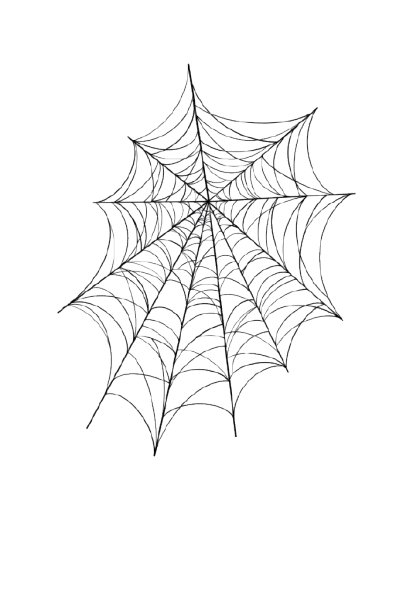
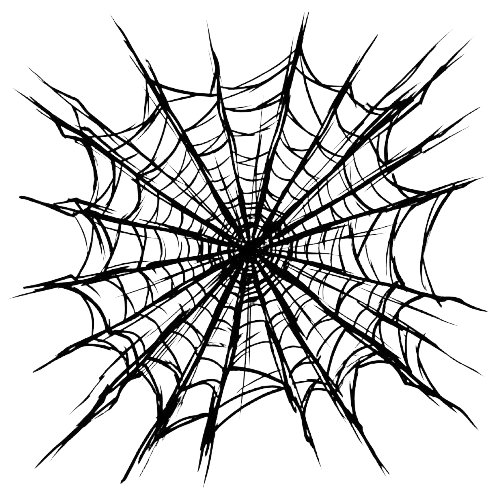
third check

diff --git a/components/WebStrand.tsx b/components/WebStrand.tsx
@@ -1,10 +1,9 @@
 "use client";
 
 import { useEffect, useRef } from "react";
-import { User } from "lucide-react";
+import Image from "next/image";
 import { useGsapScrollTrigger, prefersReducedMotion } from "@/lib/gsap";
 
-// TODO(content): swap the placeholder avatar circle for a real profile photo.
 export default function WebStrand() {
   const containerRef = useRef<HTMLDivElement>(null);
   const lineRef = useRef<HTMLDivElement>(null);
@@ -29,8 +28,8 @@ export default function WebStrand() {
         { scaleY: 1, duration: 0.6, ease: "power2.out", transformOrigin: "top" }
       ).fromTo(
         photoRef.current,
-        { y: -40, opacity: 0, scale: 0.8 },
-        { y: 0, opacity: 1, scale: 1, duration: 0.8, ease: "elastic.out(1, 0.6)" },
+        { y: -180, opacity: 0, scale: 0.8 },
+        { y: 0, opacity: 1, scale: 1, duration: 1.1, ease: "elastic.out(1, 0.55)" },
         "-=0.1"
       );
     }, containerRef);
@@ -46,9 +45,15 @@ export default function WebStrand() {
       />
       <div
         ref={photoRef}
-        className="flex h-40 w-40 items-center justify-center rounded-full border-4 border-primary bg-surface-soft shadow-lg motion-reduce:opacity-100"
+        className="relative h-56 w-56 overflow-hidden rounded-full border-4 border-primary shadow-lg motion-reduce:opacity-100 sm:h-64 sm:w-64"
       >
-        <User className="h-16 w-16 text-primary" strokeWidth={1.5} />
+        <Image
+          src="/assets/portrait.jpg"
+          alt="Kirsh Talreja"
+          fill
+          sizes="256px"
+          className="object-cover object-top"
+        />
       </div>
     </div>
   );

diff --git a/components/Hero.tsx b/components/Hero.tsx
@@ -1,5 +1,5 @@
 import WebCorner from "./WebCorner";
-import MaskReveal from "./MaskReveal";
+import HeroVisual from "./HeroVisual";
 
 export default function Hero() {
   return (
@@ -7,13 +7,13 @@ export default function Hero() {
       id="top"
       className="relative flex min-h-screen items-center overflow-hidden bg-surface pt-24"
     >
-      <MaskReveal />
+      <HeroVisual />
 
       <WebCorner className="pointer-events-none absolute -left-10 -top-10 z-10 h-48 w-48 opacity-60 md:h-64 md:w-64" />
-      <WebCorner
+      {/* <WebCorner
         flip
-        className="pointer-events-none absolute -bottom-16 -right-10 z-10 h-48 w-48 opacity-60 md:h-64 md:w-64"
-      />
+        className="pointer-events-none absolute bottom-0 right-0 z-10 h-64 w-48 origin-bottom-right opacity-60 md:h-64 md:w-64"
+      /> */}
 
       <div className="relative z-10 mx-auto w-full max-w-6xl px-6">
         <div className="max-w-xl">

diff --git a/components/About.tsx b/components/About.tsx
@@ -1,3 +1,4 @@
+import WebCorner from "./WebCorner";
 import WebStrand from "./WebStrand";
 
 const STACK = ["React", "Node.js", "Express", "PostgreSQL", "MongoDB", "Docker"];
@@ -7,11 +8,13 @@ export default function About() {
     <section id="about" className="web-watermark relative bg-surface-soft py-32">
       <div className="mx-auto grid max-w-6xl items-center gap-16 px-6 md:grid-cols-2">
         <div>
+           <WebCorner className="pointer-events-none absolute -left-10 -top-30 z-10 h-48 w-48 opacity-60 md:h-64 md:w-64" />
+               
           <p className="eyebrow mb-4">🕸 Behind the Mask</p>
           <h2 className="section-heading">
-            Sri
+            KIRSH 
             <br />
-            Sushmita.
+            TALREJA.
           </h2>
 
           {/* TODO(content): replace with real bio copy. */}

diff --git a/components/HeroVisual.tsx b/components/HeroVisual.tsx
@@ -1,0 +1,19 @@
+import Image from "next/image";
+
+export default function HeroVisual() {
+  return (
+    <div className="absolute inset-0 h-full w-full md:left-1/2 md:w-1/2">
+      <Image
+        src="/assets/spiderman-mask.png"
+        alt="Spider-Man mask"
+        fill
+        priority
+        sizes="(min-width: 768px) 50vw, 100vw"
+        className="object-cover"
+      />
+
+      {/* keeps hero copy legible over the full-bleed image on mobile, where this panel spans the whole section */}
+      <div className="absolute inset-0 bg-gradient-to-t from-surface via-surface/10 to-transparent md:bg-gradient-to-r md:from-surface md:via-transparent md:to-transparent" />
+    </div>
+  );
+}

diff --git a/tailwind.config.ts b/tailwind.config.ts
@@ -39,12 +39,17 @@ const config: Config = {
           "0%, 100%": { transform: "rotate(-3deg)" },
           "50%": { transform: "rotate(3deg)" },
         },
+        web_pulse: {
+          "0%, 100%": { transform: "scale(1)" },
+          "50%": { transform: "scale(1.4)" },
+        },
       },
       animation: {
         "spin-slow": "spin_slow 40s linear infinite",
         "marquee-left": "marquee_left 28s linear infinite",
         "marquee-right": "marquee_right 24s linear infinite",
         sway: "sway 6s ease-in-out infinite",
+        "web-pulse": "web_pulse 8s ease-in-out infinite",
       },
     },
   },

diff --git a/components/WebCorner.tsx b/components/WebCorner.tsx
@@ -7,16 +7,12 @@ interface WebCornerProps {
 
 export default function WebCorner({ className = "", flip = false }: WebCornerProps) {
   return (
-    <div
-      className={`${className} animate-spin-slow`}
-      style={{ animationDuration: "90s" }}
-      aria-hidden="true"
-    >
+    <div className={`${className} animate-web-pulse`} aria-hidden="true">
       <Image
         src="/assets/web.png"
-        alt=""
-        width={420}
-        height={594}
+        alt=""  
+        width={320}
+        height={320}
         className={`h-full w-full object-contain ${flip ? "rotate-180" : ""}`}
       />
     </div>
